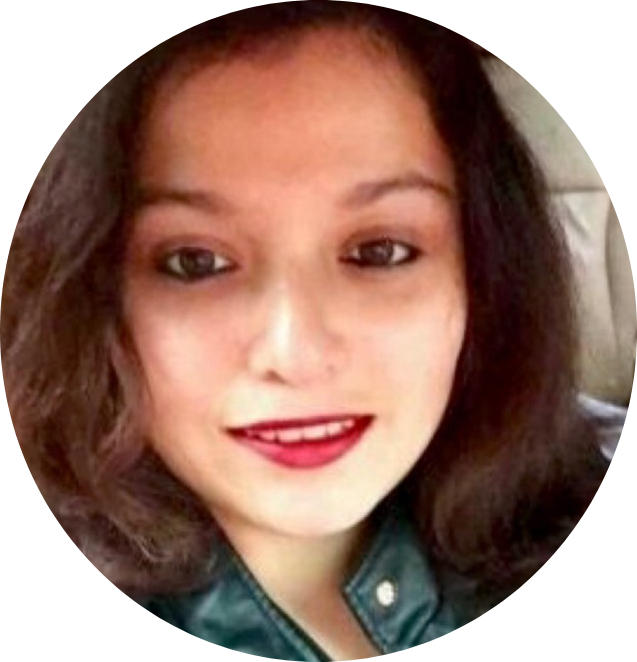
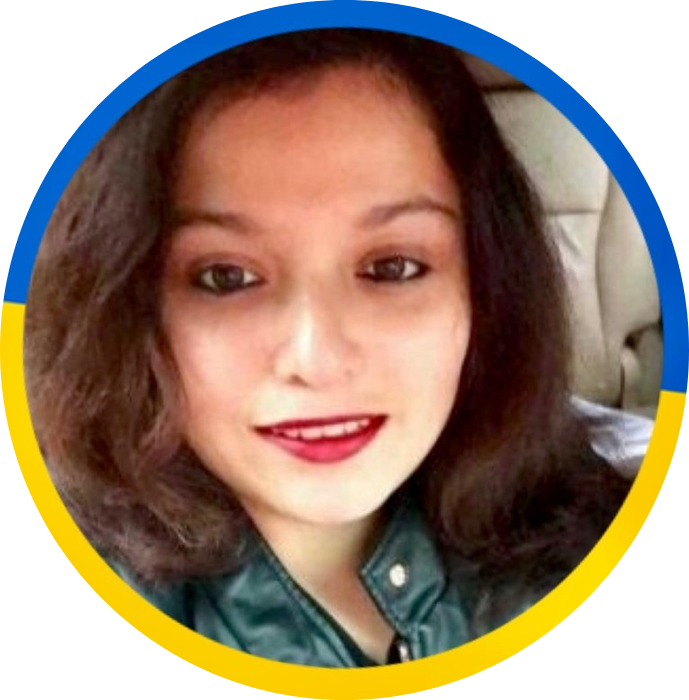
feat: use new images

diff --git a/website/www/site/content/en/case-studies/akvelon.md b/website/www/site/content/en/case-studies/akvelon.md
@@ -98,12 +98,9 @@ community
   </p>
   <div class="case-study-quote-author">
     <div class="case-study-quote-author-img">
-        <img src="/images/learner_graph.png">
+        <img src="/images/case-study/akvelon/chitnis.png">
     </div>
     <div class="case-study-quote-author-info">
-        <div class="case-study-quote-author-img">
-            <img src="/images/case-study/akvelon/chitnis.png">
-        </div>
         <div class="case-study-quote-author-name">
           Jay Chitnis
         </div>
@@ -115,8 +112,8 @@ community
 </blockquote>
 
 <div class="post-scheme">
-    <a href="/images/case-study/akvelon/scheme-1.png" target="_blank" title="Click to enlarge">
-        <img src="/images/case-study/akvelon/scheme-1.png" alt="Protegrity & Equifax Tokenization Pipeline">
+    <a href="/images/case-study/akvelon/diagram-01.png" target="_blank" title="Click to enlarge">
+        <img src="/images/case-study/akvelon/diagram-01.png" alt="Protegrity & Equifax Tokenization Pipeline">
     </a>
 </div>
 
@@ -152,8 +149,8 @@ The project included prototyping, test infrastructure, and Salesforce plugin pip
 customers
 
 <div class="post-scheme">
-    <a href="/images/case-study/akvelon/scheme-2.png" target="_blank" title="Click to enlarge">
-        <img src="/images/case-study/akvelon/scheme-2.png" alt="CDAP Connector Integration with Apache Beam">
+    <a href="/images/case-study/akvelon/diagram-02.png" target="_blank" title="Click to enlarge">
+        <img src="/images/case-study/akvelon/diagram-02.png" alt="CDAP Connector Integration with Apache Beam">
     </a>
 </div>
 
